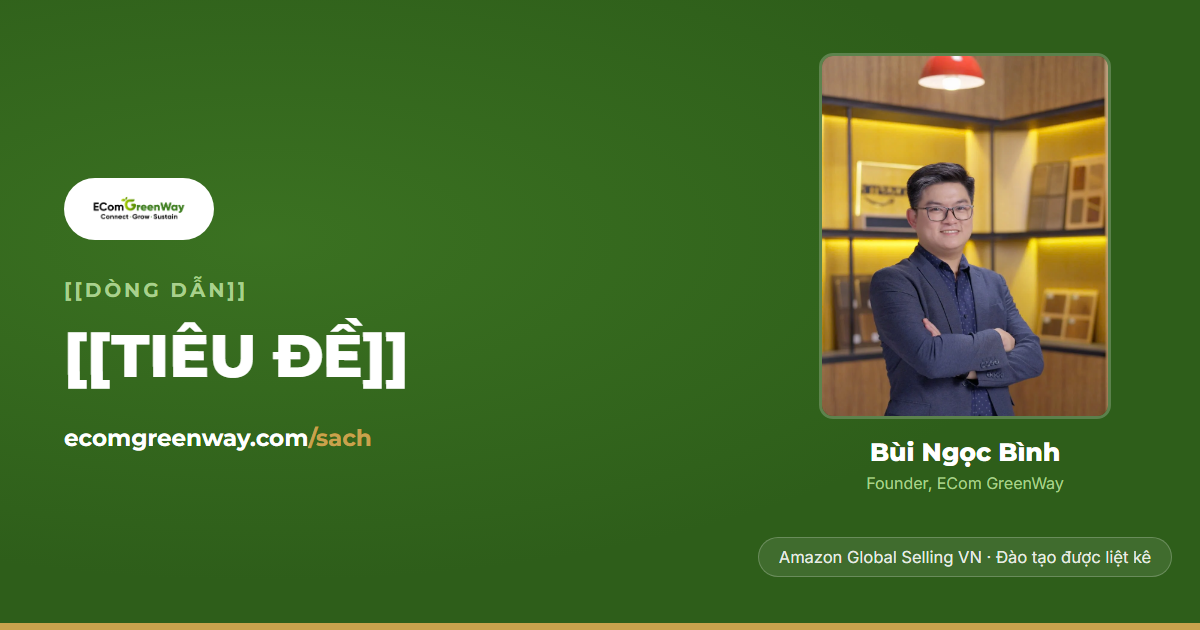
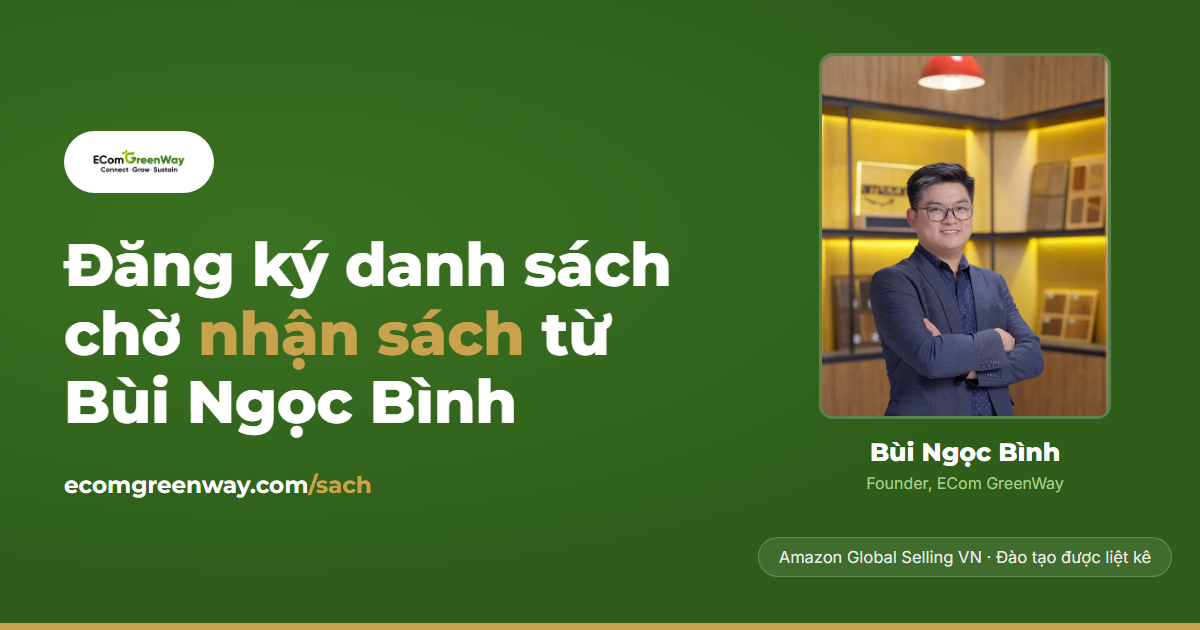
Ship /sach v1: fix radio overlap, drop placeholder copy
Radio fix: Brevo styles .entry__choice with padding-left:1.5em and
text-indent:-1.5em (hanging indent). The negative indent pulls only the
first line back 24px — right where the radio circle sits — so each option
lost its first character ("hưa từng" instead of "Chưa từng"). Cancel both,
then reserve space with padding-left on the label and position the circle
absolutely. Verified at 375px: scrollWidth equals viewport, no element
overflows.

Copy: page ships as a shorter v1 — header, title, authority, form, footer.
H1 is now the real title; the duplicate title and the "first 100" line
inside the Brevo form are removed so nothing repeats on one screen. The
book description, form heading, eyebrow and anti-spam line are dropped for
now, each replaced by a "CHỖ DÀNH CHO" comment at its exact position with
the sample markup and the brief. Their CSS is left in place. The privacy
policy link stays.

Also: filled title/description/og tags from existing copy, tightened
vertical rhythm so the form sits higher on mobile, and re-rendered
assets/og-sach.png to match the new H1.

Page keeps its temporary noindex until the description is written.

Changed region(s): [[0.0308, 0.181, 0.555, 0.7238], [0.0308, 0.754, 0.3083, 0.7841]]

diff --git a/sach.html b/sach.html
@@ -10,8 +10,9 @@
     bằng CSS theo <html lang>. Nếu trang này dùng cơ chế đó, người dùng từng
     bấm EN ở trang chủ sẽ mở /sach ra thấy TRANG TRẮNG. Giữ nguyên như hiện tại.
   · Trang tự chứa 100%: không phụ thuộc CSS/JS của index.html.
-  · Chữ trong [[ NGOẶC VUÔNG KÉP ]] là placeholder — thay bằng chữ thật,
-    và xoá luôn <span class="ph">…</span> bọc quanh nó.
+  · Bản v1 rút gọn: hero -> khối uy tín -> form -> footer. Phần mô tả sách
+    và vài câu phụ chưa có, chỗ dành cho chúng được đánh dấu bằng comment
+    "CHỖ DÀNH CHO ..." ngay tại vị trí sẽ điền.
   ══════════════════════════════════════════════════════════════════════════
 -->
 <html lang="vi">
@@ -20,17 +21,19 @@
   <meta name="viewport" content="width=device-width, initial-scale=1.0" />
 
   <!-- Tiêu đề tab trình duyệt + tiêu đề hiện khi dán link lên Facebook.
-       Yêu cầu: ≤ 60 ký tự, giữ đuôi "— ECom GreenWay" để nhận diện. -->
-  <title>[[TIÊU ĐỀ TRANG]] — ECom GreenWay</title>
+       Nên ≤ 60 ký tự và giữ đuôi "— ECom GreenWay" để nhận diện. -->
+  <title>Đăng ký danh sách chờ nhận sách — ECom GreenWay</title>
 
   <!-- Đoạn mô tả hiện dưới tiêu đề khi dán link lên Facebook.
-       Yêu cầu: 1–2 câu, 120–155 ký tự, nói lợi ích của việc đăng ký. -->
-  <meta name="description" content="[[MÔ TẢ NGẮN CHO FACEBOOK / GOOGLE]]" />
+       Ghép từ chữ đã có sẵn (tiêu đề form Brevo + dòng uy tín trên trang chủ),
+       không phải câu viết mới. Sửa được — giữ trong khoảng 120–155 ký tự. -->
+  <meta name="description" content="Đăng ký danh sách chờ nhận sách từ Bùi Ngọc Bình — Founder ECom GreenWay, nhà cung cấp dịch vụ đào tạo được Amazon Global Selling Vietnam liệt kê." />
 
   <link rel="icon" type="image/jpeg" href="assets/ECom GreenWay favicon.jpeg" />
 
   <!-- ⚠ XOÁ DÒNG NÀY TRƯỚC KHI CHẠY THẬT ⚠
-       Đang chặn Google lập chỉ mục vì trang còn chữ placeholder [[ ]].
+       Đang chặn Google lập chỉ mục vì trang mới ở bản v1 rút gọn,
+       phần mô tả sách chưa có.
        Điền xong hết chữ thì xoá dòng dưới, nếu không trang sẽ mãi không
        xuất hiện trên Google. -->
   <meta name="robots" content="noindex" />
@@ -41,8 +44,8 @@
        powershell -File tools\render-og.ps1 — đừng sửa file .png trực tiếp. -->
   <meta property="og:type" content="website" />
   <meta property="og:url" content="https://www.ecomgreenway.com/sach" />
-  <meta property="og:title" content="[[TIÊU ĐỀ TRANG]] — ECom GreenWay" />
-  <meta property="og:description" content="[[MÔ TẢ NGẮN CHO FACEBOOK / GOOGLE]]" />
+  <meta property="og:title" content="Đăng ký danh sách chờ nhận sách — ECom GreenWay" />
+  <meta property="og:description" content="Đăng ký danh sách chờ nhận sách từ Bùi Ngọc Bình — Founder ECom GreenWay, nhà cung cấp dịch vụ đào tạo được Amazon Global Selling Vietnam liệt kê." />
   <meta property="og:image" content="https://www.ecomgreenway.com/assets/og-sach.png" />
   <meta property="og:image:width" content="1200" />
   <meta property="og:image:height" content="630" />
@@ -100,13 +103,6 @@
 
     .text-gold { color: var(--gold); font-family: var(--font-data); font-weight: 600; }
 
-    /* Đánh dấu chỗ cần điền chữ — xoá thẻ này khi đã điền xong */
-    .ph {
-      background: #FFF6DE; border: 1px dashed var(--gold); border-radius: 5px;
-      padding: 1px 7px; color: #7a5b16;
-      font-family: var(--font-head); font-weight: 600;
-    }
-
     /* ─── HEADER RÚT GỌN ────────────────────────────────────────── */
     /* Cố ý KHÔNG copy nav trang chủ: chỉ 1 đường về, không menu, không CTA phụ */
     .topbar { border-bottom: 1px solid var(--border); background: var(--white); padding: 12px 0; }
@@ -116,7 +112,7 @@
     .home-link:hover { color: var(--green); }
 
     /* ─── HERO / TIÊU ĐỀ TRANG ──────────────────────────────────── */
-    .hero { background: var(--green-dark); color: var(--white); padding: 44px 0 40px; }
+    .hero { background: var(--green-dark); color: var(--white); padding: 36px 0 34px; }
     .eyebrow { font-family: var(--font-head); font-size: 11px; font-weight: 700; letter-spacing: .14em; text-transform: uppercase; color: var(--green-light); margin-bottom: 14px; }
     .hero h1 { font-size: clamp(26px, 6.4vw, 40px); color: var(--white); }
     .hero h1 em { font-style: normal; color: var(--gold); }
@@ -127,7 +123,7 @@
     .intro p:last-child { margin-bottom: 0; }
 
     /* ─── AUTHORITY ─────────────────────────────────────────────── */
-    .authority { padding: 32px 0 40px; }
+    .authority { padding: 28px 0 32px; }
     .auth-card { background: var(--green-bg); border: 1px solid var(--border); border-radius: var(--radius); padding: 24px 20px; }
     .auth-head { display: flex; align-items: center; gap: 14px; margin-bottom: 18px; }
     .auth-head img { width: 62px; height: 62px; border-radius: 50%; object-fit: cover; flex-shrink: 0; box-shadow: var(--shadow); }
@@ -215,17 +211,30 @@
 
     /* Nhóm radio */
     #sib-form .entry_mcq .entry__label { margin-bottom: 12px !important; }
-    #sib-form .entry__choice { margin-bottom: 11px !important; }
-    #sib-form .entry__choice label { display: flex !important; align-items: flex-start !important; gap: 10px !important; cursor: pointer; }
+    /* THỦ PHẠM làm mất ký tự đầu ("hưa từng" thay vì "Chưa từng"):
+       Brevo đặt  .sib-form .entry__choice { padding-left:1.5em; text-indent:-1.5em }
+       — kiểu thụt lề treo, kéo RIÊNG DÒNG ĐẦU lùi ngược 24px, đúng chỗ nút
+       tròn đang đứng. Phải huỷ cả hai, rồi tự chừa chỗ bằng padding trên label. */
+    #sib-form .entry__choice {
+      padding-left: 0 !important; text-indent: 0 !important;
+      margin-bottom: 12px !important;
+    }
+    /* Nút tròn đặt tuyệt đối ở lề trái, chữ chừa sẵn 30px bên trái.
+       Chừa chỗ bằng padding thì không thể đè nhau. */
+    #sib-form .entry__choice label {
+      display: block !important; position: relative !important;
+      padding-left: 30px !important; cursor: pointer;
+    }
     #sib-form .entry__choice span:not(.radio-button) {
+      display: block !important;
       font-size: 15px !important; line-height: 1.5 !important;
       color: var(--gray-dark) !important;
     }
     /* Nút radio: Brevo mặc định xanh dương #0092ff → đổi sang xanh EGW */
     .sib-form .radio-button {
+      position: absolute !important; left: 0 !important; top: 3px !important;
       width: 18px !important; height: 18px !important;
-      flex-shrink: 0 !important; margin: 2px 0 0 !important;
-      border-color: #B7C4CC !important;
+      margin: 0 !important; border-color: #B7C4CC !important;
     }
     .sib-form .input_replaced:checked + .radio-button { border-color: var(--green) !important; }
     .sib-form .input_replaced:checked + .radio-button:before { background: var(--green) !important; }
@@ -279,10 +288,10 @@
       .topbar { padding: 14px 0; }
       .topbar img { height: 46px; }
       .home-link { font-size: 14px; }
-      .hero { padding: 60px 0 54px; }
+      .hero { padding: 54px 0 48px; }
       .intro { padding: 52px 0 8px; }
       .intro p { font-size: 17px; }
-      .authority { padding: 36px 0 48px; }
+      .authority { padding: 34px 0 40px; }
       .auth-card { padding: 32px 34px; }
       .auth-head img { width: 74px; height: 74px; }
       .auth-name { font-size: 20px; }
@@ -307,36 +316,36 @@
   <!-- ═══ 2. TIÊU ĐỀ TRANG ═══ -->
   <section class="hero">
     <div class="wrap">
-      <!-- Dòng dẫn phía trên tiêu đề.
-           Yêu cầu: ≤ 8 từ, nói ĐÂY LÀ CÁI GÌ (vd: một cuốn sách sắp ra mắt),
+      <!-- CHỖ DÀNH CHO DÒNG DẪN phía trên tiêu đề (bản v1 chưa dùng).
+           Khi cần, thêm lại vào đây:
+             <p class="eyebrow">CHỮ IN HOA, ≤ 8 TỪ</p>
+           Yêu cầu: nói ĐÂY LÀ CÁI GÌ (vd: một cuốn sách sắp ra mắt),
            không phải lời quảng cáo. -->
-      <p class="eyebrow"><span class="ph">[[DÒNG DẪN]]</span></p>
 
-      <!-- Tiêu đề trang.
-           Yêu cầu: 1 câu, KHÔNG quá 12 từ. Nói VẤN ĐỀ CỦA NGƯỜI ĐỌC,
-           không nói tên sách. Muốn nhấn 1 cụm bằng màu gold thì bọc <em>…</em>
-           quanh cụm đó (vd: "<em>Cụm nhấn</em> — phần còn lại của câu."). -->
-      <h1><span class="ph">[[TIÊU ĐỀ]]</span></h1>
+      <!-- Tiêu đề trang. Muốn nhấn 1 cụm bằng màu gold thì bọc <em>…</em>
+           quanh cụm đó (vd: "<em>Cụm nhấn</em> — phần còn lại của câu"). -->
+      <h1>Đăng ký danh sách chờ nhận sách từ Bùi Ngọc Bình</h1>
     </div>
   </section>
 
-  <!-- ═══ 3. MÔ TẢ NGẮN: SÁCH NÓI VỀ VẤN ĐỀ GÌ ═══ -->
-  <section class="intro">
-    <div class="wrap">
-      <!-- Đoạn 1. Yêu cầu: 2–3 câu, ≤ 60 từ. Gọi tên vấn đề người đọc đang gặp,
-           bằng chính ngôn ngữ họ hay dùng. Chưa nói về sách. -->
-      <p><span class="ph">[[ĐOẠN 1 — VẤN ĐỀ NGƯỜI ĐỌC ĐANG GẶP]]</span></p>
+  <!-- ═══ CHỖ DÀNH CHO PHẦN MÔ TẢ SÁCH — BẢN v1 CHƯA CÓ ═══════════════════
+       Anh Bình sẽ bổ sung nội dung vào đúng vị trí này (giữa tiêu đề và khối
+       uy tín). Khi có nội dung, mở lại khối bên dưới bằng cách bỏ hai dòng
+       dấu chú thích bao quanh nó:
 
-      <!-- Đoạn 2. Yêu cầu: 2–3 câu, ≤ 60 từ. Sách giải quyết vấn đề đó theo
-           hướng nào. KHÔNG hứa kết quả bằng con số. KHÔNG dùng "bí quyết",
-           "giàu nhanh" — trái định vị thương hiệu. -->
-      <p><span class="ph">[[ĐOẠN 2 — SÁCH GIẢI QUYẾT VẤN ĐỀ ĐÓ THẾ NÀO]]</span></p>
+       <section class="intro">
+         <div class="wrap">
+           Đoạn 1 — vấn đề người đọc đang gặp.
+             2–3 câu, ≤ 60 từ, dùng đúng ngôn ngữ họ hay nói. Chưa nói về sách.
+           Đoạn 2 — sách giải quyết vấn đề đó theo hướng nào.
+             2–3 câu, ≤ 60 từ. KHÔNG hứa kết quả bằng con số. KHÔNG dùng
+             "bí quyết" hay "giàu nhanh" — trái định vị thương hiệu.
+           Đoạn 3 — sách này viết cho ai, và không viết cho ai. 1 câu.
+         </div>
+       </section>
 
-      <!-- Đoạn 3 (tuỳ chọn — không cần thì xoá cả thẻ <p> này).
-           Yêu cầu: 1 câu. Sách viết cho ai, và không viết cho ai. -->
-      <p><span class="ph">[[ĐOẠN 3 — SÁCH NÀY VIẾT CHO AI]]</span></p>
-    </div>
-  </section>
+       CSS của khối .intro vẫn còn nguyên trong thẻ <style>, không cần viết lại.
+       ══════════════════════════════════════════════════════════════════════ -->
 
   <!-- ═══ 4. AUTHORITY ═══ -->
   <!-- Nội dung khối này LẤY NGUYÊN VĂN từ index.html (mục COACH / WHY EGW).
@@ -368,14 +377,15 @@
   <section class="signup" id="dang-ky">
     <div class="wrap">
       <div class="form-card">
-        <!-- Tiêu đề khối form. Chữ này LẤY TỪ chính form Brevo của anh
-             (khối tiêu đề 32px), không phải tôi viết mới. Sửa thoải mái —
-             nhưng sửa ở ĐÂY, không sửa trong Brevo, vì khối tiêu đề gốc của
-             Brevo đã được gỡ khỏi form (xem ghi chú ở đầu <form> bên dưới). -->
-        <h2>Đăng ký danh sách chờ nhận sách từ Bùi Ngọc Bình</h2>
-
-        <!-- Câu dưới tiêu đề — cũng lấy từ form Brevo của anh. -->
-        <p class="sub">Ưu đãi đặc biệt cho 100 người đầu tiên đăng ký nhận sách từ Bình.</p>
+        <!-- CHỖ DÀNH CHO TIÊU ĐỀ KHỐI FORM — bản v1 bỏ trống có chủ ý.
+             Tiêu đề gốc của Brevo ("Đăng ký danh sách chờ nhận sách từ Bùi
+             Ngọc Bình") đã lên làm <h1> ở đầu trang, để đây nữa là lặp hai
+             lần trên cùng một màn hình. Câu "Ưu đãi đặc biệt cho 100 người
+             đầu tiên…" cũng đã gỡ theo yêu cầu.
+             Muốn thêm lại thì đặt vào đây:
+               <h2>Tiêu đề khối form</h2>
+               <p class="sub">Câu mô tả ngắn</p>
+             CSS cho .form-card h2 và .sub vẫn còn nguyên trong <style>. -->
 
         <!-- ════════════════════════════════════════════════════════════
              FORM BREVO (embed native, KHÔNG iframe).
@@ -504,10 +514,9 @@
           </div>
         </div>
 
-        <!-- Dòng cam kết dưới form. Yêu cầu: 1 câu ngắn về việc không spam /
-             không chia sẻ email. Giữ nguyên link chính sách bảo mật. -->
+        <!-- Câu cam kết không spam sẽ thêm vào ngay trước link bên dưới
+             (1 câu ngắn, về việc không spam / không chia sẻ email). -->
         <p class="form-note">
-          <span class="ph">[[CÂU CAM KẾT KHÔNG SPAM]]</span>
           Xem <a href="privacy.html">Chính sách bảo mật</a>.
         </p>
       </div>

diff --git a/tools/og-sach.html b/tools/og-sach.html
@@ -5,7 +5,7 @@
   Đây KHÔNG phải trang web, chỉ là bản vẽ để chụp ra file ảnh PNG.
 
   CÁCH DÙNG:
-    1. Sửa 2 chỗ [[ ]] bên dưới (tiêu đề + dòng dẫn)
+    1. Sửa tiêu đề <h1> bên dưới (và dòng dẫn nếu muốn dùng)
     2. Chạy:  powershell -File tools\render-og.ps1
     3. Ảnh ra ở assets/og-sach.png, tự động đúng 1200×630
 
@@ -102,15 +102,14 @@
         <img src="../assets/Ecom Greenway Logo.png" alt="ECom GreenWay" />
       </div>
 
-      <!-- DÒNG DẪN. Yêu cầu: ≤ 5 từ, IN HOA, nói đây là cái gì.
-           Nên trùng ý với dòng dẫn trên trang /sach. -->
-      <div class="eyebrow">[[DÒNG DẪN]]</div>
+      <!-- CHỖ DÀNH CHO DÒNG DẪN — bản v1 bỏ trống, khớp với trang /sach.
+           Muốn thêm: <div class="eyebrow">CHỮ IN HOA, ≤ 5 TỪ</div> -->
 
       <!-- TIÊU ĐỀ. Yêu cầu: ≤ 12 từ, tối đa 3 dòng khi hiện ra.
            Nên dùng ĐÚNG câu tiêu đề đã đặt trên trang /sach — người đọc thấy
            ảnh rồi bấm vào, thấy lại đúng câu đó thì mới thấy nhất quán.
            Bọc <em>…</em> quanh cụm muốn tô vàng (chỉ 1 cụm, đừng tô cả câu). -->
-      <h1>[[TIÊU ĐỀ]]</h1>
+      <h1>Đăng ký danh sách chờ <em>nhận sách</em> từ Bùi Ngọc Bình</h1>
 
       <div class="url">ecomgreenway.com<span>/sach</span></div>
     </div>
